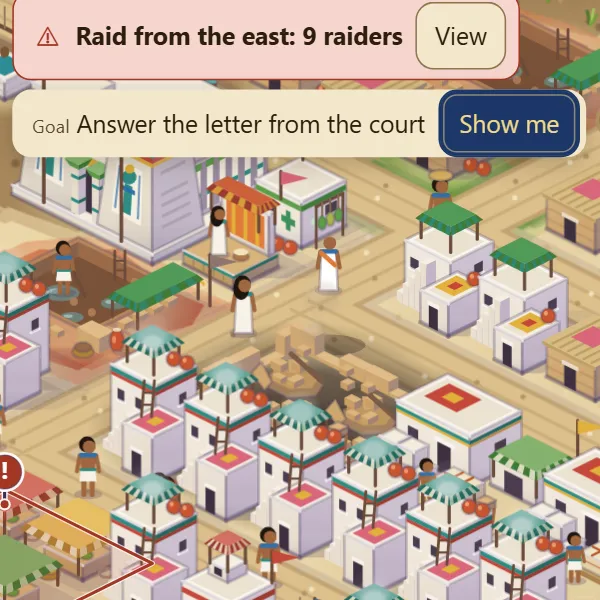
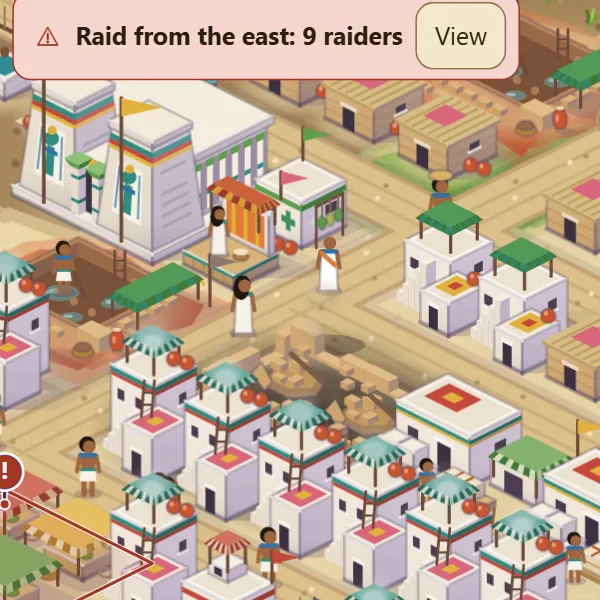
Version 6.0 fix wave, batch 2: the raid result, the raid card, the Huge pan bound, the budget tests
- the raid result row takes down the report's own caption when it goes up (the two stood one over the other saying the same; a landscape phone's result no longer
  waits for the caption), and lists the towers the band brought down and the granary's food in the grace years among what was lost;
- the raid card's picture no longer shows the court-letter goal row (the scene hides the goals row); homes and ahead are made again and are byte for byte as they were;
- a pan, fling or pinch holds the middle of the view on the map for a camera that knows its map's size, so a zoomed-out Huge map no longer shows a screen of tan;
- the b2 budget tests' wall-clock limits are measured again (up to three times) before they fail, so a loaded machine does not fail the suite.

Changed region(s): [[0.0, 0.15, 0.99, 0.3]]

diff --git a/src/ui/v60/battle.js b/src/ui/v60/battle.js
@@ -9,15 +9,31 @@
 //    the rest of the interface, the height budget and has-banner are concerned), kept there against alerts.js clearing the banner by a MutationObserver.
 //    It stays MOMENT.days game days, or until dismissed, or until the next raid starts. On a phone (portrait or compact) the alert row is one line: the
 //    result takes it from a polite alert (a letter from the court waits behind it), and waits itself while an alert that urges (a fire, a debt) has the
-//    row, showing when it is free, so it never adds a row;
+//    row, showing when it is free, so it never adds a row. The report's own caption (danger.js, the same numbers in a longer line) is dropped when the
+//    result goes up, so the two never stand one over the other saying the same;
 //  - fires the chieftain tip the first time a raid with a chieftain starts.
 import { seamBase } from '../s46/seam.js';
 import { setBattleHooks, resetBattleHooks } from '../../render/units.js';
 import { MOMENT } from '../../data/battle.js';
 import { openSheet } from '../modes.js';
 import { POLITE } from '../alerts.js';
-import { B2_TEXT } from '../text.js';
+import { B2_TEXT, B1_TEXT, DANGER_UI_TEXT, plural } from '../text.js';
 import { el, button, icon, iconButton } from '../components.js';
+
+// The result's words: B2_TEXT.moment's (src/ui/text.js) when the band brought no tower down and took no granary's food unlisted; with towers lost (the report's
+// towersLost) or food stolen (foodStolen, a granary's food in the grace years, when `taken` does not list it; after them `taken` does, so it is not said twice) the same
+// lines with them in what was lost, in the order the raid report (DANGER_UI_TEXT.raidReport) lists them. Written here because that section of text.js is another batch's file.
+export function momentWords(r) {
+  const food = r.foodStolen && !r.taken ? r.foodStolen : 0;
+  if (!r.towersLost && !food) return B2_TEXT.moment(r);
+  const stopped = (r.byTowers || 0) + (r.bySoldiers || 0) + (r.byArchers || 0) + (r.byChariots || 0);
+  const lost = [r.burned ? plural(r.burned, 'building burned', 'buildings burned') : '', r.wrecked ? `${B1_TEXT.wrecked(r.wreckedKinds || [])} wrecked` : '', r.towersLost ? plural(r.towersLost, 'tower fell', 'towers fell') : '',
+    r.taken ? `${B1_TEXT.taken(r.taken)} taken` : '', food ? `${food} food stolen` : '', r.stolen ? `${r.stolen} gold stolen` : '', r.fled ? `${plural(r.fled, 'resident', 'residents')} fled` : ''].filter(Boolean);
+  const stoppedLine = stopped ? `${stopped} of ${r.size} raiders stopped.` : '', chief = r.chiefs ? B1_TEXT.chiefLine(r) : '';
+  if (r.won) return { title: 'Raid beaten', detail: [stoppedLine || 'The band turned back.', chief, `Lost: ${lost.join(', ')}.`].filter(Boolean).join(' ') };
+  const did = `${lost.join(', ')}.`;
+  return { title: 'The raiders got through', detail: [did.charAt(0).toUpperCase() + did.slice(1), stoppedLine, chief].filter(Boolean).join(' ') };
+}
 
 export function createBattleUi(ctx) {
   const base = seamBase();
@@ -30,15 +46,19 @@ export function createBattleUi(ctx) {
   let observer = null, syncing = false;
 
   const phone = () => { const l = ctx.store.get().layout; return l === 'portrait' || l === 'compact'; };
-  // On a landscape phone only one row sits under the top bar (the mobile budget): the raid report's caption (danger.js, an info caption, shown first) has
-  // it while it is up, so the result waits for it to go.
+  // The raid report's caption (danger.js shows it on the same raid_end, an info caption with the report's longer words) is taken down when the result goes up:
+  // the result row says the same, and on a landscape phone only one row sits under the top bar (the mobile budget). Only that caption: another waiting
+  // or showing caption is not the report's, so it is left to its own timers.
   const cheer = root && root.querySelector ? root.querySelector('#cheer') : null;
-  const captionUp = () => ctx.store.get().layout === 'compact' && Boolean(cheer) && Boolean(cheer.querySelector('.cheer'));
+  function dropReportCaption(report) {
+    const node = cheer ? cheer.querySelector('.cheer .text') : null;
+    if (node && ctx.celebrations && typeof ctx.celebrations.clear === 'function' && node.textContent.trim() === DANGER_UI_TEXT.raidReport(report)) ctx.celebrations.clear();
+  }
   // A critical alert has the row when it is one that urges (a fire, a raid warning, debt): a polite one (a letter from the court) gives way to the result.
   const criticalShowing = () => Boolean(banner) && [...banner.querySelectorAll('.critical:not(.moment)')].some((n) => !POLITE.has(n.dataset.code));
 
   function build(report) {
-    const won = Boolean(report.won), t = B2_TEXT.moment(report);
+    const won = Boolean(report.won), t = momentWords(report);
     const node = el('div', { class: 'critical moment', dataset: { code: won ? 'raid_beaten' : 'raid_lost' } }, [
       icon(won ? '✔' : '⚠'),
       el('span', { class: 'text' }, [el('strong', { text: t.title }), ' ', el('span', { class: 'small', text: t.detail })]),
@@ -57,7 +77,7 @@ export function createBattleUi(ctx) {
     try {
       if (moment && world.day - moment.day >= MOMENT.days) { moment.node.remove(); moment = null; }
       if (moment) moment.node.classList.toggle('line', phone());            // the phone's one-line alert row
-      const show = Boolean(moment) && !(phone() && criticalShowing()) && !captionUp();
+      const show = Boolean(moment) && !(phone() && criticalShowing());
       banner.classList.toggle('moment-up', show && phone());                // on a phone the result takes the one-line row: a letter waits behind it (CSS)
       if (show && moment.node.parentNode !== banner) banner.append(moment.node);
       else if (!show && moment && moment.node.parentNode === banner) moment.node.remove();
@@ -74,7 +94,6 @@ export function createBattleUi(ctx) {
   if (banner && typeof MutationObserver === 'function') {
     observer = new MutationObserver(() => { if (moment) sync(); });
     observer.observe(banner, { childList: true });
-    if (cheer) observer.observe(cheer, { childList: true });             // a caption coming or going may free the row
   }
 
   // The result is said once to a screen reader, politely (the alerts' own announcer, #live).
@@ -96,9 +115,10 @@ export function createBattleUi(ctx) {
         else if (e.type === 'raid_end' && e.report) {
           if (moment) moment.node.remove();
           moment = { report: e.report, day: world.day, node: build(e.report) };
-          const t = B2_TEXT.moment(e.report);
+          const t = momentWords(e.report);
           announce(`${t.title}. ${t.detail}`);
           sync();
+          if (moment.node.parentNode === banner) dropReportCaption(e.report);   // the result is up: the caption saying the same goes (while a fire holds a phone's row, the caption stays)
         }
       }
     },

diff --git a/tests/v60/b2/moment.test.js b/tests/v60/b2/moment.test.js
@@ -6,11 +6,11 @@ import { makeTestWorld, setRoad, addRaw, staffAll } from '../../helpers/testWorl
 import { raidDay, entryDir } from '../../../src/sim/raids.js';
 import { footMix } from '../../../src/data/armies.js';
 import { MOMENT } from '../../../src/data/battle.js';
-import { B2_TEXT, B1_TEXT, TIP_TEXT, TIP_HELP_TEXT, V60_HELP } from '../../../src/ui/text.js';
+import { B2_TEXT, B1_TEXT, DANGER_UI_TEXT, TIP_TEXT, TIP_HELP_TEXT, V60_HELP } from '../../../src/ui/text.js';
 import { TIPS } from '../../../src/data/tips.js';
 import { CHIEFTAIN } from '../../../src/data/hazards.js';
 import { measureRows } from '../../../src/dev/scenes.js';
-import { createBattleUi } from '../../../src/ui/v60/battle.js';
+import { createBattleUi, momentWords } from '../../../src/ui/v60/battle.js';
 import { setBattleHooks, resetBattleHooks, unitsAt, heldAge } from '../../../src/render/units.js';
 import { FIGHT } from '../../../src/data/battle.js';
 
@@ -51,6 +51,23 @@ describe('v60 b2 moment words', () => {
     expect(B2_TEXT.moment({ ...LOST, burned: 0, burnedKinds: [], wrecked: 0, taken: null, stolen: 0, chiefs: 0 }).detail).toBe('They struck and left. 2 of 9 raiders stopped.');
     expect(B2_TEXT.moment({ ...WON, chiefs: 1, chiefsFell: 1, burned: 2, burnedKinds: ['potter', 'potter'] }).detail).toBe(`8 of 9 raiders stopped. ${B1_TEXT.chiefLine({ chiefs: 1, chiefsFell: 1 })} Lost: 2 buildings burned.`);
     expect(B2_TEXT.moment({ ...WON, byArchers: 1, byChariots: 2 }).detail).toBe('11 of 9 raiders stopped.'.replace('11', String(3 + 5 + 1 + 2)));   // every kind that stopped them counts
+  });
+
+  it('lists the towers the band brought down among what was lost, as the raid report does (the final review), and reads as B2_TEXT.moment says it when none fell', () => {
+    expect(momentWords(WON)).toEqual(B2_TEXT.moment(WON));
+    expect(momentWords(LOST)).toEqual(B2_TEXT.moment(LOST));
+    const won = momentWords({ ...WON, burned: 1, burnedKinds: ['potter'], towersLost: 2 });
+    expect([won.title, won.detail]).toEqual(['Raid beaten', '8 of 9 raiders stopped. Lost: 1 building burned, 2 towers fell.']);
+    expect(momentWords({ ...WON, towersLost: 1 }).detail).toBe('8 of 9 raiders stopped. Lost: 1 tower fell.');
+    const lost = momentWords({ ...LOST, towersLost: 1 });
+    expect(lost.detail).toBe(`1 building burned, ${B1_TEXT.wrecked(['storehouse'])} wrecked, 1 tower fell, ${B1_TEXT.taken({ pottery: 12 })} taken, 40 gold stolen. 2 of 9 raiders stopped. ${B1_TEXT.chiefLine(LOST)}`);
+    expect(momentWords({ ...LOST, burned: 0, burnedKinds: [], wrecked: 0, taken: null, stolen: 0, chiefs: 0, towersLost: 3 }).detail).toBe('3 towers fell. 2 of 9 raiders stopped.');
+    // a granary's food in the grace years is in foodStolen, not in taken: said once; after the grace taken lists it and foodStolen is not said again
+    expect(momentWords({ ...WON, foodStolen: 20 }).detail).toBe('8 of 9 raiders stopped. Lost: 20 food stolen.');
+    expect(momentWords({ ...LOST, taken: null, foodStolen: 20 }).detail).toBe(`1 building burned, ${B1_TEXT.wrecked(['storehouse'])} wrecked, 20 food stolen, 40 gold stolen. 2 of 9 raiders stopped. ${B1_TEXT.chiefLine(LOST)}`);
+    expect(momentWords({ ...LOST, foodStolen: 12 })).toEqual(B2_TEXT.moment(LOST));
+    // what the report itself lists (DANGER_UI_TEXT.raidReport) names the same tower line, so the row and the summary agree
+    expect(DANGER_UI_TEXT.raidReport({ ...LOST, towersLost: 1 })).toContain('1 tower fell');
   });
 
   it('words a real raid from its report: what stopped the band and what it cost, both ways', () => {
@@ -249,11 +266,8 @@ describe('v60 b2 moment on a phone', () => {
           rig.ui.onEvents([{ type: 'raid_end', won: false, report: LOST }]);
           await tick(); await tick();
           const at = `${width}x${height} ${textSize}%`, portrait = rig.store.get().layout === 'portrait';
-          if (!portrait) {                                                                                 // a landscape phone has one row: the report's caption has it first
-            expect([at, Boolean(rig.root.querySelector('#cheer .cheer')), Boolean(rowOf(rig))]).toEqual([at, true, false]);
-            rig.ui.celebrations.clear();
-            await tick(); await tick();
-          }
+          // the report's caption is dropped as the result goes up, on every phone (the final review: the two stood one over the other saying the same)
+          expect([at, Boolean(rig.root.querySelector('#cheer .cheer')), Boolean(rowOf(rig))]).toEqual([at, false, true]);
           rig.frame(1);                                                                                    // a frame: the guidance row sees the alert row's claim (syncGuidance runs each frame)
           const m = measureRows(rig.root);
           const limit = portrait && textSize < 125 ? 0.3 : 0.4, rowsAllowed = !portrait && textSize >= 125 ? 1 : 2;

diff --git a/tests/v60/b2/budget.test.js b/tests/v60/b2/budget.test.js
@@ -39,12 +39,21 @@ function layers(world, motion) {
   };
 }
 
+// These are wall-clock limits, which a machine under load (another suite, a screenshot, a build) can break without the code being any slower: a measurement that
+// is over its limit is taken again, up to three times, and counts only if every one was over (the final review: no spurious failure of the whole suite; a real
+// slowdown is over every time).
+function measuredWell(measure, ok, tries = 3) {
+  let m = measure();
+  for (let i = 1; i < tries && !ok(m); i++) m = measure();
+  return m;
+}
+
 describe('v60 b2 budget layers', () => {
   for (const size of [80, 112]) {
     it(`draws the battle's units, marks, fire and smoke, smouldering rubble and effects within the layer budget on a ${size}x${size} map`, () => {
       const built = stressWorld(size);
       for (const motion of ['full', 'gentle', 'still']) {
-        const l = layers(structuredClone(built), motion);
+        const l = measuredWell(() => layers(structuredClone(built), motion), (x) => x.units + x.marks + x.fires + x.effects < LAYER_BUDGET_MS && x.fires < LAYER_BUDGET_MS);
         const total = l.units + l.marks + l.fires + l.effects;
         expect([size, motion, Math.round(total * 100) / 100 < LAYER_BUDGET_MS]).toEqual([size, motion, true]);
         expect([size, motion, 'fires', l.fires < LAYER_BUDGET_MS]).toEqual([size, motion, 'fires', true]);   // the dearest: a dozen alight and ten ruins smouldering
@@ -57,7 +66,8 @@ describe('v60 b2 budget frame', () => {
   for (const size of [80, 112]) {
     it(`keeps the whole frame of a ${size}x${size} city in a battle inside the stress-frame budgets and close to the same city at peace`, () => {
       const built = stressWorld(size);
-      const near = measureBattle(size, { zoom: 1, world: built, frames: 30 }), far = measureBattle(size, { zoom: 0.5, world: built, frames: 20 });
+      const near = measuredWell(() => measureBattle(size, { zoom: 1, world: built, frames: 30 }), (m) => m.battle.median < FRAME_DEFAULT_MS && m.delta < 6);
+      const far = measuredWell(() => measureBattle(size, { zoom: 0.5, world: built, frames: 20 }), (m) => m.battle.median < FRAME_FAR_MS && m.delta < 15);
       expect([size, 'default zoom', near.battle.median < FRAME_DEFAULT_MS]).toEqual([size, 'default zoom', true]);
       expect([size, 'zoomed out', far.battle.median < FRAME_FAR_MS]).toEqual([size, 'zoomed out', true]);
       expect([size, 'default zoom delta', near.delta < 6]).toEqual([size, 'default zoom delta', true]);

diff --git a/tests/v60/d1/huge.test.js b/tests/v60/d1/huge.test.js
@@ -12,7 +12,7 @@ import { resourceReach, RESOURCES } from '../../../src/data/s47.js';
 import { packSave, unpackSave } from '../../../src/save/serialize.js';
 import { createRecords } from '../../../src/save/records.js';
 import { shareLink, parseShareLink } from '../../../src/ui/share.js';
-import { createCamera, zoomAt, minZoomFor, frameTiles, zoomFloor, MIN_ZOOM, MAX_ZOOM, FRAME_RATIO_OVER_LARGE } from '../../../src/render/camera.js';
+import { createCamera, zoomAt, panBy, minZoomFor, frameTiles, zoomFloor, MIN_ZOOM, MAX_ZOOM, FRAME_RATIO_OVER_LARGE } from '../../../src/render/camera.js';
 import { createCameraControl } from '../../../src/ui/cameraControl.js';
 import { boot } from '../../../src/boot.js';
 import { createSaveStore } from '../../../src/save/store.js';
@@ -156,5 +156,23 @@ describe('v60 d1 huge map: choosing it on the title starts a Huge city with its 
       fire(laptop.shell.root.querySelector('#title .choice.mapsize[data-value="huge"]'), 'click');
       expect(laptop.shell.root.querySelector('#title .size-note').hidden).toBe(true);
     } finally { laptop.close(); }
+  });
+});
+
+describe('v60 d1 huge map: a pan stops at the map\'s edge (the final review: no screen of empty tan)', () => {
+  it('holds the middle of the view on the map for a camera that knows its size, in every direction and at the least zoom, and leaves one without a size free', () => {
+    const cam = createCamera({ x: 56, y: 56, zoom: MIN_ZOOM, size: HUGE_MAP_SIZE });
+    const seen = [];
+    for (const [dx, dy] of [[100000, 0], [-100000, 0], [0, 100000], [0, -100000], [100000, 100000], [-100000, -100000]]) {
+      panBy(cam, dx, dy);
+      seen.push([cam.x >= 0 && cam.x <= HUGE_MAP_SIZE, cam.y >= 0 && cam.y <= HUGE_MAP_SIZE]);
+    }
+    expect(seen.every(([a, b]) => a && b)).toBe(true);
+    const mid = createCamera({ x: 56, y: 56, zoom: 1, size: HUGE_MAP_SIZE });
+    panBy(mid, 64, 0);
+    expect([Math.round(mid.x * 100) / 100, Math.round(mid.y * 100) / 100]).toEqual([55, 57]);   // a pan inside the map is as it always was
+    const free = createCamera({ x: 5, y: 5, zoom: 1 });
+    panBy(free, 100000, 0);
+    expect(free.x < 0 || free.y < 0).toBe(true);                                                 // no size: the title's backdrop and tests pan freely
   });
 });

diff --git a/src/render/camera.js b/src/render/camera.js
@@ -55,11 +55,15 @@ export function screenToTileIndex(cam, view, sx, sy) {
   return { x: Math.floor(t.x), y: Math.floor(t.y) };
 }
 
+// A drag, a fling or a pinch may carry the middle of the view to the map's own edge and no further (Version 6.0, the final review: zoomed out on a Huge map a pan
+// could leave a screen of empty tan past the edge). A camera that knows its map's size (createCamera's size: every game's) is held to the map; one that does not
+// (the title's backdrop, a test's) pans freely as before.
 export function panBy(cam, dxPx, dyPx) {
   const k = pxPerArt(cam);
   const t = artToTile(dxPx / k, dyPx / k); // the projection is linear, so a delta converts the same way
   cam.x -= t.x;
   cam.y -= t.y;
+  if (cam.mapSize) { cam.x = Math.min(cam.mapSize, Math.max(0, cam.x)); cam.y = Math.min(cam.mapSize, Math.max(0, cam.y)); }
   return cam;
 }
 

diff --git a/src/dev/tutorialScenes.js b/src/dev/tutorialScenes.js
@@ -271,6 +271,9 @@ Object.assign(PICTURES, {
   async raid(g, api) {
     await raidBurnScene(api, { look: 'ruins', quick: true, zoom: 1.5, hold: 100 });
     const h = api.game();
+    // The goals row under the alert (a court letter to answer) is the game's own, not the card's thing: the picture shows the alert and the rubble alone.
+    const goals = document.querySelector('#goals');
+    if (goals) goals.style.display = 'none';
     const rubble = Object.values(h.world.buildings).filter((b) => b.type === 'rubble' && b.was && b.was.cause === 'wreck');
     if (!rubble.length) throw new Error('devScene tutorial: the raid wrecked nothing');
     const x0 = Math.min(...rubble.map((b) => b.x)), y0 = Math.min(...rubble.map((b) => b.y));

diff --git a/sw-files.js b/sw-files.js
@@ -1,6 +1,6 @@
 // Generated by tools/sw-files.ps1. Do not edit: run the tool after adding or changing files.
 self.THEBES_VERSION = '5.0';
-self.THEBES_BUILD = '3d639a920954';
+self.THEBES_BUILD = '5df3a2fa3e6c';
 self.THEBES_FILES = [
   './',
   './assets/tutorial/ahead.webp',
